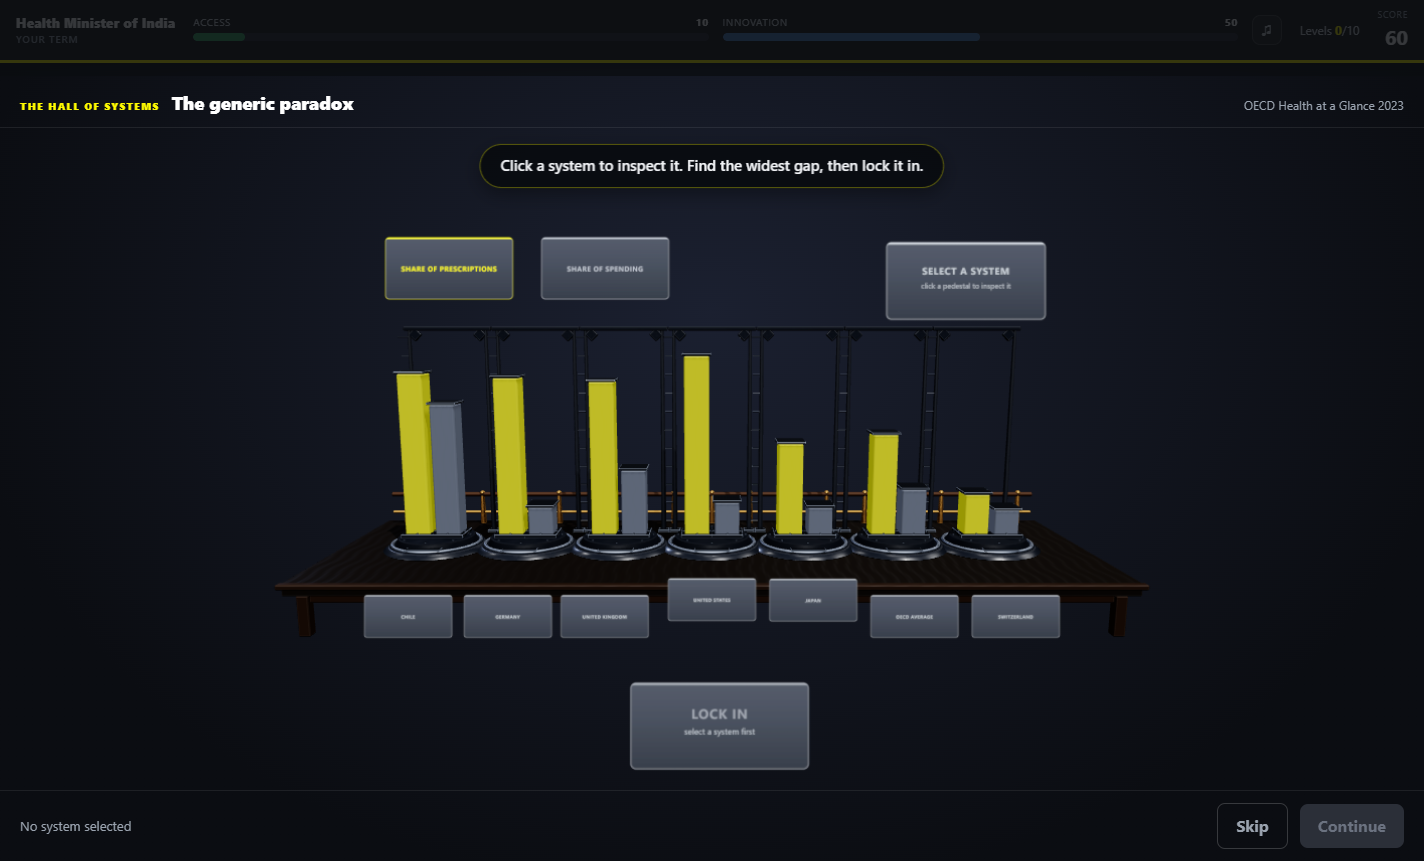
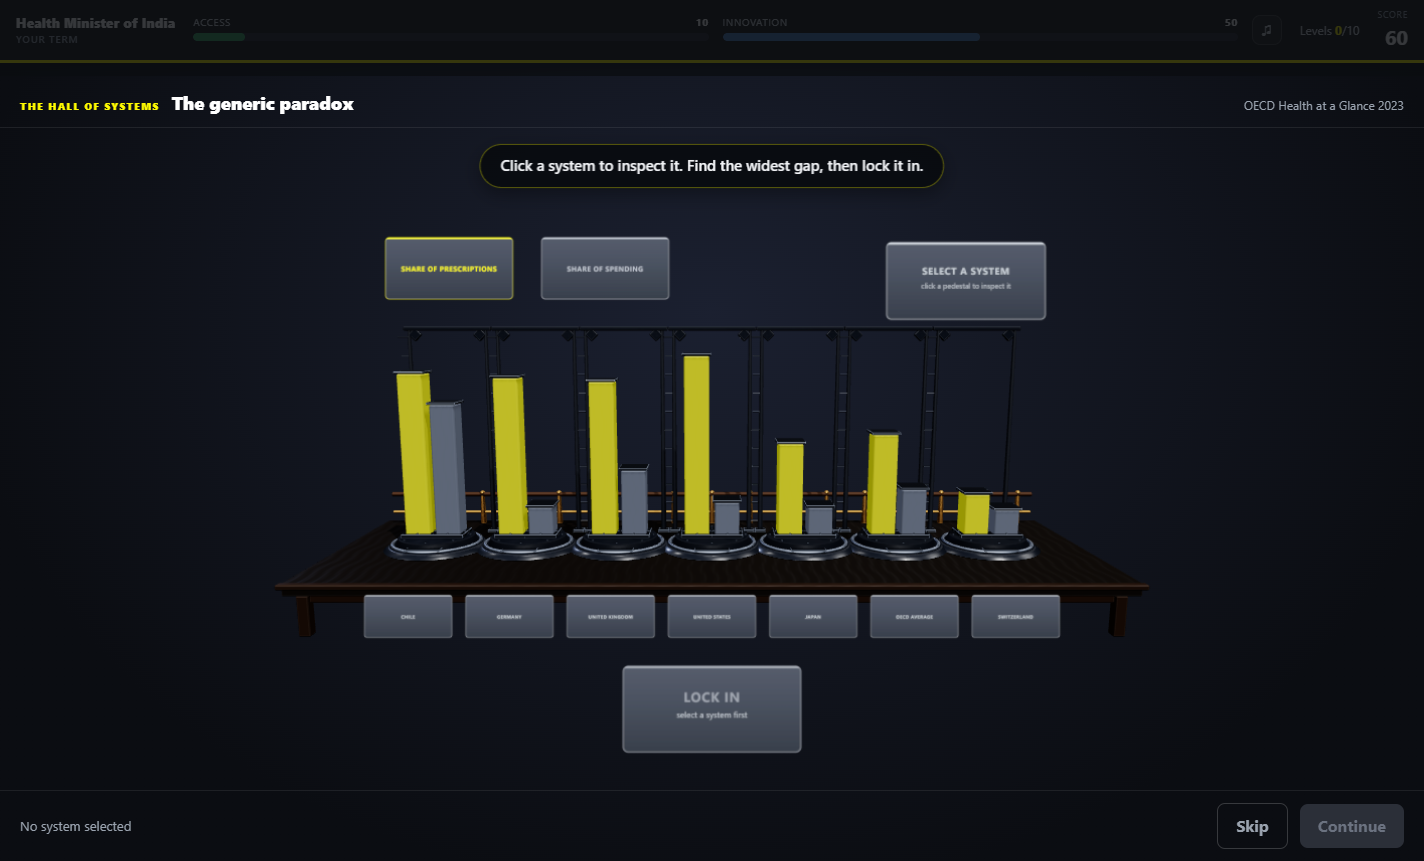
bug fixes

Changed region(s): [[0.4326, 0.6643, 0.618, 0.9059], [0.3708, 0.6945, 0.4017, 0.7549]]

diff --git a/tools/verify-layout.js b/tools/verify-layout.js
@@ -1,0 +1,116 @@
+/* ============================================================
+   tools/verify-layout.js — does the label layout come to rest?
+
+   A screenshot cannot catch an oscillating label: every frame
+   looks plausible, and the still is taken at one of them. This
+   plays each scene, samples every registered label's position
+   over time, and reports how far they are still travelling in
+   the final window.
+
+   Settled means the separation solver converged. Drift means
+   something is pushing a label in a loop — which is what happens
+   if an object is both a label and a keep-out volume, because
+   then it pushes itself.
+
+   Usage:
+     npx electron . --remote-debugging-port=9444    (in one shell)
+     node tools/verify-layout.js                    (in another)
+   ============================================================ */
+
+const http = require("http");
+
+const arg = (k, d) => {
+  const m = process.argv.find((a) => a.startsWith("--" + k + "="));
+  return m ? m.split("=")[1] : d;
+};
+const PORT = +arg("port", 9444);
+const SETTLE = +arg("settle", 2200);   // let the entry sweep and solver finish
+const WINDOW = +arg("window", 1200);   // then watch for this long
+const LIMIT = +arg("limit", 0.02);     // world units of drift we call "at rest"
+
+function targets() {
+  return new Promise((resolve, reject) => {
+    http.get(`http://localhost:${PORT}/json`, (res) => {
+      let b = ""; res.on("data", (d) => (b += d));
+      res.on("end", () => { try { resolve(JSON.parse(b)); } catch (e) { reject(e); } });
+    }).on("error", reject);
+  });
+}
+
+(async function main() {
+  let pages;
+  try { pages = (await targets()).filter((t) => t.type === "page"); }
+  catch (e) {
+    console.error(`Cannot reach the debugger on port ${PORT}.`);
+    console.error(`Start the app first:  npx electron . --remote-debugging-port=${PORT}`);
+    process.exit(2);
+  }
+  if (!pages.length) { console.error("No page target found."); process.exit(2); }
+
+  const ws = new WebSocket(pages[0].webSocketDebuggerUrl);
+  let id = 0;
+  const pending = new Map();
+  ws.onmessage = (e) => {
+    const m = JSON.parse(e.data);
+    if (m.id && pending.has(m.id)) { pending.get(m.id)(m); pending.delete(m.id); }
+  };
+  const send = (method, params) => new Promise((res) => {
+    const n = ++id; pending.set(n, res);
+    ws.send(JSON.stringify({ id: n, method, params: params || {} }));
+  });
+  const evals = async (expr) => {
+    const r = await send("Runtime.evaluate",
+      { expression: expr, awaitPromise: true, returnByValue: true });
+    if (r.result && r.result.exceptionDetails) {
+      throw new Error(r.result.exceptionDetails.text || "eval failed");
+    }
+    return r.result && r.result.result ? r.result.result.value : undefined;
+  };
+
+  await new Promise((r) => { ws.onopen = r; });
+  await send("Runtime.enable");
+
+  const scenes = await evals(`Object.keys(window.__ilRegistry || {}).length
+    ? Object.keys(window.__ilRegistry)
+    : ["molecule","courtroom","market-floor","equilibrium","ward","globe","wage",
+       "antitrust","race","oecd","dispatch","dispatch-market","dispatch-reach",
+       "dispatch-power","reckoning"]`);
+
+  console.log("");
+  let worstAll = 0, bad = 0;
+  for (const key of scenes) {
+    await evals(`window.Interludes.play(${JSON.stringify(key)}); true`);
+    await new Promise((r) => setTimeout(r, SETTLE));
+
+    const report = await evals(`(async () => {
+      const d = window.Interludes.debug();
+      if (!d || !d.labels || !d.labels.length) return { n: 0, drift: 0 };
+      const snap = () => d.labels.map(L => L.mesh.position.clone());
+      const a = snap();
+      await new Promise(r => setTimeout(r, ${WINDOW}));
+      const b = snap();
+      let drift = 0, which = -1;
+      for (let i = 0; i < a.length; i++) {
+        const v = a[i].distanceTo(b[i]);
+        if (v > drift) { drift = v; which = i; }
+      }
+      return { n: a.length, drift: +drift.toFixed(4), which };
+    })()`);
+
+    const flag = report.drift > LIMIT;
+    if (flag) bad++;
+    worstAll = Math.max(worstAll, report.drift);
+    console.log("  %s labels=%s  drift=%s %s",
+      key.padEnd(16), String(report.n).padStart(2),
+      String(report.drift).padStart(7),
+      flag ? "  <-- STILL MOVING" : "");
+  }
+
+  await evals(`window.Interludes.close(false); true`);
+  ws.close();
+  console.log("");
+  console.log("  worst drift %s over %sms (at rest <= %s)",
+    worstAll.toFixed(4), WINDOW, LIMIT);
+  console.log(bad ? "  LAYOUT NOT SETTLED in " + bad + " scene(s)" : "  layout settled everywhere");
+  process.exit(bad ? 1 : 0);
+})();

diff --git a/interludes.js b/interludes.js
@@ -1226,6 +1226,12 @@ function play(id, params) {
   // setup and reads `composer`. A `let` further down leaves it in the temporal
   // dead zone at that point and play() aborts before the render loop starts.
   let torn = false;                             // teardown is idempotent
+  /* Identity for this session, created here and published at the end of play().
+     teardown() clears the global `active` only if it still points at *this*
+     session. Without that check a scene switched during the exit fade would be
+     killed by its predecessor: play() starts the new session, then the old
+     one's 220ms fade timer fires and nulls `active` out from under it. */
+  const session = {};
   let composer = null, composerState = "idle";   // idle | loading | ready | failed
   // master switch for the composer. Off by default until Phase 3 lands real
   // passes; flipped at runtime via Interludes.setPost() during verification.
@@ -1813,16 +1819,44 @@ function play(id, params) {
      Note these labels were never blocking input: they are not in ctx.pickables
      and the raycast passes straight through them. The problem was purely that
      the player could not see the beam or the slot underneath. */
+  /* Rects are remembered between solves and only replaced when they move by
+     more than a hair. Several scenes animate a pickable to beckon — the
+     concentration room pulses its add and remove buttons by about five per
+     cent — and without this the rect breathes, the labels beside it are pushed
+     in and out in sympathy, and nothing ever comes to rest. Real movement, like
+     the ball rolling along the curve, is far outside the deadband and still
+     tracks normally. */
+  const _koCache = new WeakMap();
+  const KO_DEADBAND = 0.014;
+
   function keepOutRects() {
     const out = [];
     const seen = new Set();
     const consider = (o) => {
       if (!o || seen.has(o)) return;
       seen.add(o);
+      /* A registered label must never become a keep-out volume. It is already
+         handled by label-vs-label separation, and counting it here makes it
+         push itself: the push moves the label, the move changes its screen
+         rect, so on the next pass it pushes itself again and never settles.
+         The lock-in plaque is both a label and a click target, which is how it
+         ended up oscillating and shoving the pedestal names around with it. */
+      if (o.userData && o.userData.label) return;
       // an invisible hit proxy stands in for something real; measure that
       const t = (o.userData && o.userData.rimTarget) || o;
-      const r = screenRectOf(t);
-      if (r) out.push(r);
+      if (t.userData && t.userData.label) return;   // same reason as above
+      let r = screenRectOf(t);
+      if (!r) return;
+      const prev = _koCache.get(t);
+      if (prev && Math.abs(prev.x - r.x) < KO_DEADBAND &&
+                  Math.abs(prev.y - r.y) < KO_DEADBAND &&
+                  Math.abs(prev.hx - r.hx) < KO_DEADBAND &&
+                  Math.abs(prev.hy - r.hy) < KO_DEADBAND) {
+        r = prev;                       // inside the deadband: nothing changed
+      } else {
+        _koCache.set(t, r);
+      }
+      out.push(r);
     };
     for (const p of pickables) consider(p);
     scene.traverse((o) => { if (o.userData && o.userData.keepClear) consider(o); });
@@ -2200,7 +2234,7 @@ function play(id, params) {
     labels.length = 0;
     renderer.dispose();
     overlay.remove();
-    active = null;
+    if (active === session) active = null;
   }
 
   /* Exit is a fade rather than a cut, but the game flow must not be held
@@ -2247,8 +2281,10 @@ function play(id, params) {
     briefToggle.textContent = collapsed ? "Read brief" : "Hide";
   });
 
-  active = { id, close: endSession,
-             _internals: { ctx, get instance() { return instance; }, camera, scene, labels } };
+  session.id = id;
+  session.close = endSession;
+  session._internals = { ctx, get instance() { return instance; }, camera, scene, labels };
+  active = session;
 }
 
 function close(finished) { if (active) active.close(finished); }
